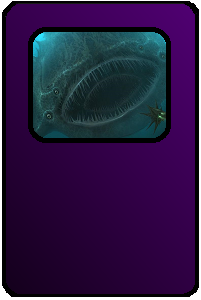
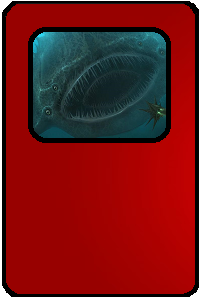
fixed bug with mouse over on opponent's turn. redesigned sea witch to no draw cards

diff --git a/src/cardgame1/VisualEffectHandler.java b/src/cardgame1/VisualEffectHandler.java
@@ -27,7 +27,9 @@ public class VisualEffectHandler {
     VisualEffectHandler(Board b){
         board = b;
     }
-    
+    public void resetMouseOverTime(){
+        timeMousedOver= 0;
+    }
     public void render(Graphics2D g){
         drawLineM(g);  //draw line from selected minion
         drawLineC(g);  //draw line from selected card
@@ -59,7 +61,7 @@ public class VisualEffectHandler {
         if(mousedOverMinion!= null && mousedOverMinion == InputHandler.getMinionAt(Board.mouseX, Board.mouseY)){
             timeMousedOver++;
         }
-        if(timeMousedOver > NUM_TICKS_TO_WAIT && mousedOverMinion!=null){
+        if(timeMousedOver > NUM_TICKS_TO_WAIT && mousedOverMinion!=null && Board.playerHero.turn){
             mousedOverMinion.parent.render(g, Board.mouseX, Board.mouseY, true);
         }
     }
@@ -73,7 +75,7 @@ public class VisualEffectHandler {
         if(mousedOverTrap!= null && mousedOverTrap == InputHandler.getTrapAt(Board.mouseX, Board.mouseY)){
             timeMousedOver++;
         }
-        if(timeMousedOver > NUM_TICKS_TO_WAIT && mousedOverTrap!=null){
+        if(timeMousedOver > NUM_TICKS_TO_WAIT && mousedOverTrap!=null && Board.playerHero.turn){
             //time to render the card, but only reveal what it is if it is the player's
             int toRenderY = Board.mouseY;
             if(mousedOverTrap.owner == Board.botHero) toRenderY -= Card.HEIGHT; //draw it higher than usual if its on the bottom of the screen

diff --git a/src/Minions/Fish/SeaWitchMinion.java b/src/Minions/Fish/SeaWitchMinion.java
@@ -6,9 +6,14 @@
 package Minions.Fish;
 
 import Cards.Card;
+import Cards.Fish.FrenzyCard;
+import Cards.Fish.PredationCard;
+import Cards.Fish.SwollowCard;
 import Minions.Minion;
 import Minions.Tribe;
+import cardgame1.Main;
 import cardgame1.SpriteHandler;
+import java.util.ArrayList;
 
 /**
  *
@@ -18,7 +23,7 @@ public class SeaWitchMinion extends Minion{
         public SeaWitchMinion(Card parent){
         this.parent = parent;
         this.owner = parent.getOwner();
-        attack = 1;
+        attack = 3;
         tribe = Tribe.none;
         maxHealth = 4;
         health = maxHealth;
@@ -28,12 +33,14 @@ public class SeaWitchMinion extends Minion{
         
         @Override
         public void onSummon() {
-        int highest = 0;
-        for (Minion m : owner.minions.getOccupants()) {
-            if(m.tribe == Tribe.Fish && m.attack > highest && m!=this){
-                highest = m.attack;
-            }
-        }
-        this.attack += highest;
+        ArrayList<Card> options = new ArrayList<>();
+        //possible draw options
+        options.add(new FrenzyCard());
+        options.add(new PredationCard());
+        options.add(new SwollowCard());
+        //
+        this.proc();
+        Main.wait(AI.AI.speed/3);
+        owner.draw(options.get((int)(Math.random()*options.size())));
         }
 }

diff --git a/src/Cards/Fish/SeaWitchCard.java b/src/Cards/Fish/SeaWitchCard.java
@@ -21,23 +21,12 @@ public class SeaWitchCard extends Card{
         public SeaWitchCard() {
         name = "Sea Witch";
         cardType = CardType.Minion;
-        cardPurpose = CardPurpose.VanillaMinion;
-        cardText = "On Summon: \n Gain attack equal to \n the attack of your \n strongest fish (0)";
+        cardPurpose = CardPurpose.BattlecryMinionDraw;
+        cardText = "On Summon: \n Put a random fish \n related spell into \n your hand";
         sprite = SpriteHandler.seaWitchCard;
         cost = 4;
         summon = new SeaWitchMinion(this);
+        this.spellDamage = 1; //spell damage represents number of cards drawn for a battlecryminiondraw
     }
         
-        @Override
-        public void tick(){
-            intrinsicValue = 0;
-            int value = 0;
-            for(Minion m : owner.minions.getOccupants()){
-                if(m.tribe==Tribe.Fish && m.attack > value){
-                    value = m.attack;
-                }
-            }
-            intrinsicValue = value;
-            cardText = "On Summon: \n Gain attack equal to \n the attack of your \n strongest fish (" + value + ")" ;
-        }
 }

diff --git a/src/Traps/Fish/SwollowTrap.java b/src/Traps/Fish/SwollowTrap.java
@@ -8,6 +8,7 @@ package Traps.Fish;
 import Cards.Card;
 import Minions.Minion;
 import Traps.Trap;
+import cardgame1.Board;
 import cardgame1.Main;
 import cardgame1.SpriteHandler;
 import cardgame1.Sticker;
@@ -30,9 +31,13 @@ public class SwollowTrap extends Trap{
     public void onSummon(Minion m){
         System.out.println("i saw a minion summoned");
         if(m.owner!=owner && m.health < 4){
-            Sticker reveal = new Sticker(parent,1700,200,AI.AI.speed*4);
-            Sticker s = new Sticker(SpriteHandler.bloodMedium,m,AI.AI.speed*4);
-            Main.wait(AI.AI.speed*4);
+            Sticker s = new Sticker(SpriteHandler.bloodMedium, m, AI.AI.speed * 4);
+            if(owner==Board.topHero){
+                Sticker reveal = new Sticker(parent, this.getXCoordinate(), this.getYCoordinate(), AI.AI.speed * 4);
+            }else{
+                Sticker reveal = new Sticker(parent, this.getXCoordinate(), this.getYCoordinate()+Card.HEIGHT, AI.AI.speed * 4);
+            }
+            Main.wait(AI.AI.speed * 4);
             m.destroy();
             owner.traps.remove(this);
             m.destroy();

diff --git a/src/AI/AI.java b/src/AI/AI.java
@@ -170,6 +170,7 @@ public abstract class AI {
                     break;
                 }
             case Debuff:
+                //TODO
                 break;
             case DirectHeal:
                 if(isHeroVulnerable(c.getOwner())){
@@ -738,8 +739,11 @@ public abstract class AI {
                 if(value < 1) return getWorth(c.summon);
                 return value+ c.intrinsicValue;
             case BattlecryMinionDraw:
-                //TODO
-                break;
+                value = getWorth(c.summon) + c.intrinsicValue;
+                int numDrawable = Hero.maxHandSize - c.getOwner().hand.size(); //number of cards we can draw.
+                if(c.spellDamage>numDrawable) value -= (c.spellDamage-numDrawable)*2;  //reduce value if it will cause overdraw
+                else value += (numDrawable - c.spellDamage);
+                return value;
             case Special:
                 value = c.getValue();
                 return value+ c.intrinsicValue;

diff --git a/src/GUI/OpeningGUI.java b/src/GUI/OpeningGUI.java
@@ -77,11 +77,13 @@ public class OpeningGUI extends javax.swing.JFrame {
         ArrayList<Card> deck = new ArrayList<>();
         for (int i = 0; i < 4; i++) {
             deck.add(new KelpieCard());
-            deck.add(new PredationCard());
             deck.add(new ThrasherCard());
+            deck.add(new FireBoltCard());
+            deck.add(new SeaWitchCard());
         }
         for(int i = 0; i < 2; i++) {
             deck.add(new SwollowCard());
+            deck.add(new PredationCard());
          }
         return deck;
         }

diff --git a/src/Cards/Fish/SwollowCard.java b/src/Cards/Fish/SwollowCard.java
@@ -18,7 +18,7 @@ public class SwollowCard extends TrapCard{
         public SwollowCard(){
         super();
         name = "Swollow Trap";
-        cardText = "Whenever your \n opponent summons a \n minion with less \n than 4 health, \n destroy it";
+        cardText = "Whenever your \n opponent summons \n a minion with less \n than 4 health, \n destroy it";
         sprite = SpriteHandler.swollowTrap;
         cost = 2;
         myTrap = new SwollowTrap(this);

diff --git a/src/Cards/Fish/JellyfishCard.java b/src/Cards/Fish/JellyfishCard.java
@@ -22,7 +22,7 @@ public class JellyfishCard extends Card{
         cardPurpose = CardPurpose.VanillaMinion;
         cardText = "When this damages \n another minion, \n reduce its attack \n by 1";
         sprite = SpriteHandler.jellyfishCard;
-        cost = 3;
+        cost = 2;
         summon = new JellyfishMinion(this);
     }
 }

diff --git a/src/cardgame1/InputHandler.java b/src/cardgame1/InputHandler.java
@@ -112,6 +112,7 @@ public class InputHandler extends KeyAdapter implements MouseListener, MouseMoti
         }
         switch (e.getKeyChar()) {
             case ' ':
+                Board.visHandler.resetMouseOverTime();
                 Board.controller.nextTurn();
                 break;
             case 'q':

diff --git a/src/Minions/Fish/JellyfishMinion.java b/src/Minions/Fish/JellyfishMinion.java
@@ -20,7 +20,7 @@ public class JellyfishMinion extends Minion{
     public JellyfishMinion(Card parent){
         this.parent=parent;
         this.attack=1;
-        this.health=5;
+        this.health=4;
         this.maxHealth=health;
         this.intrinsicValue=2;
         this.tribe = Tribe.Fish;
